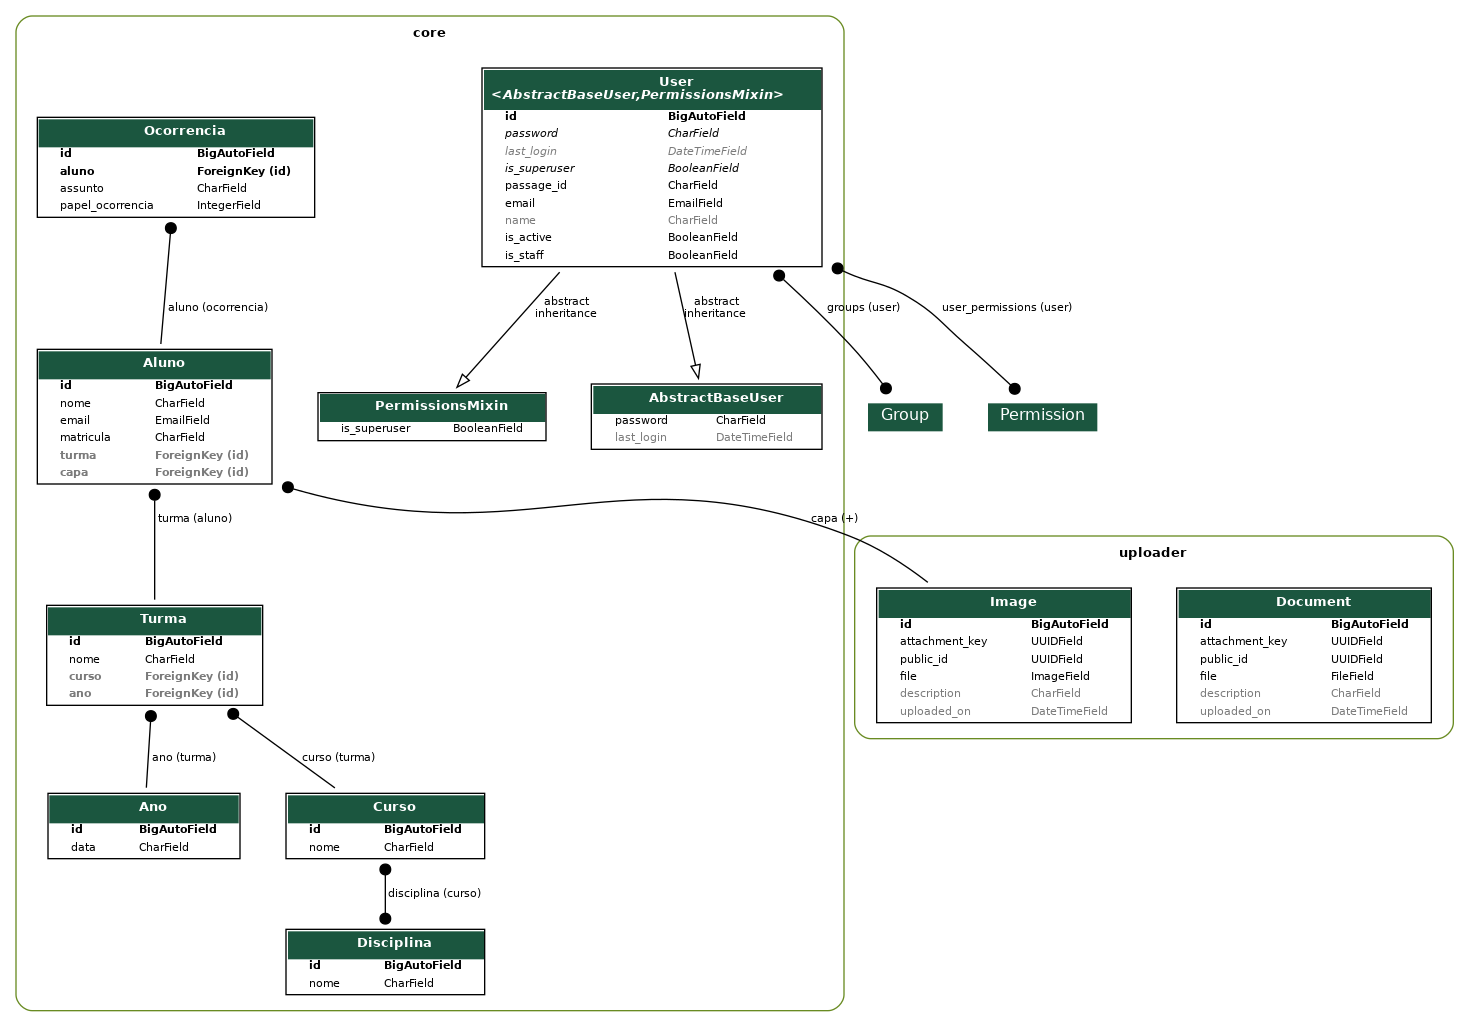
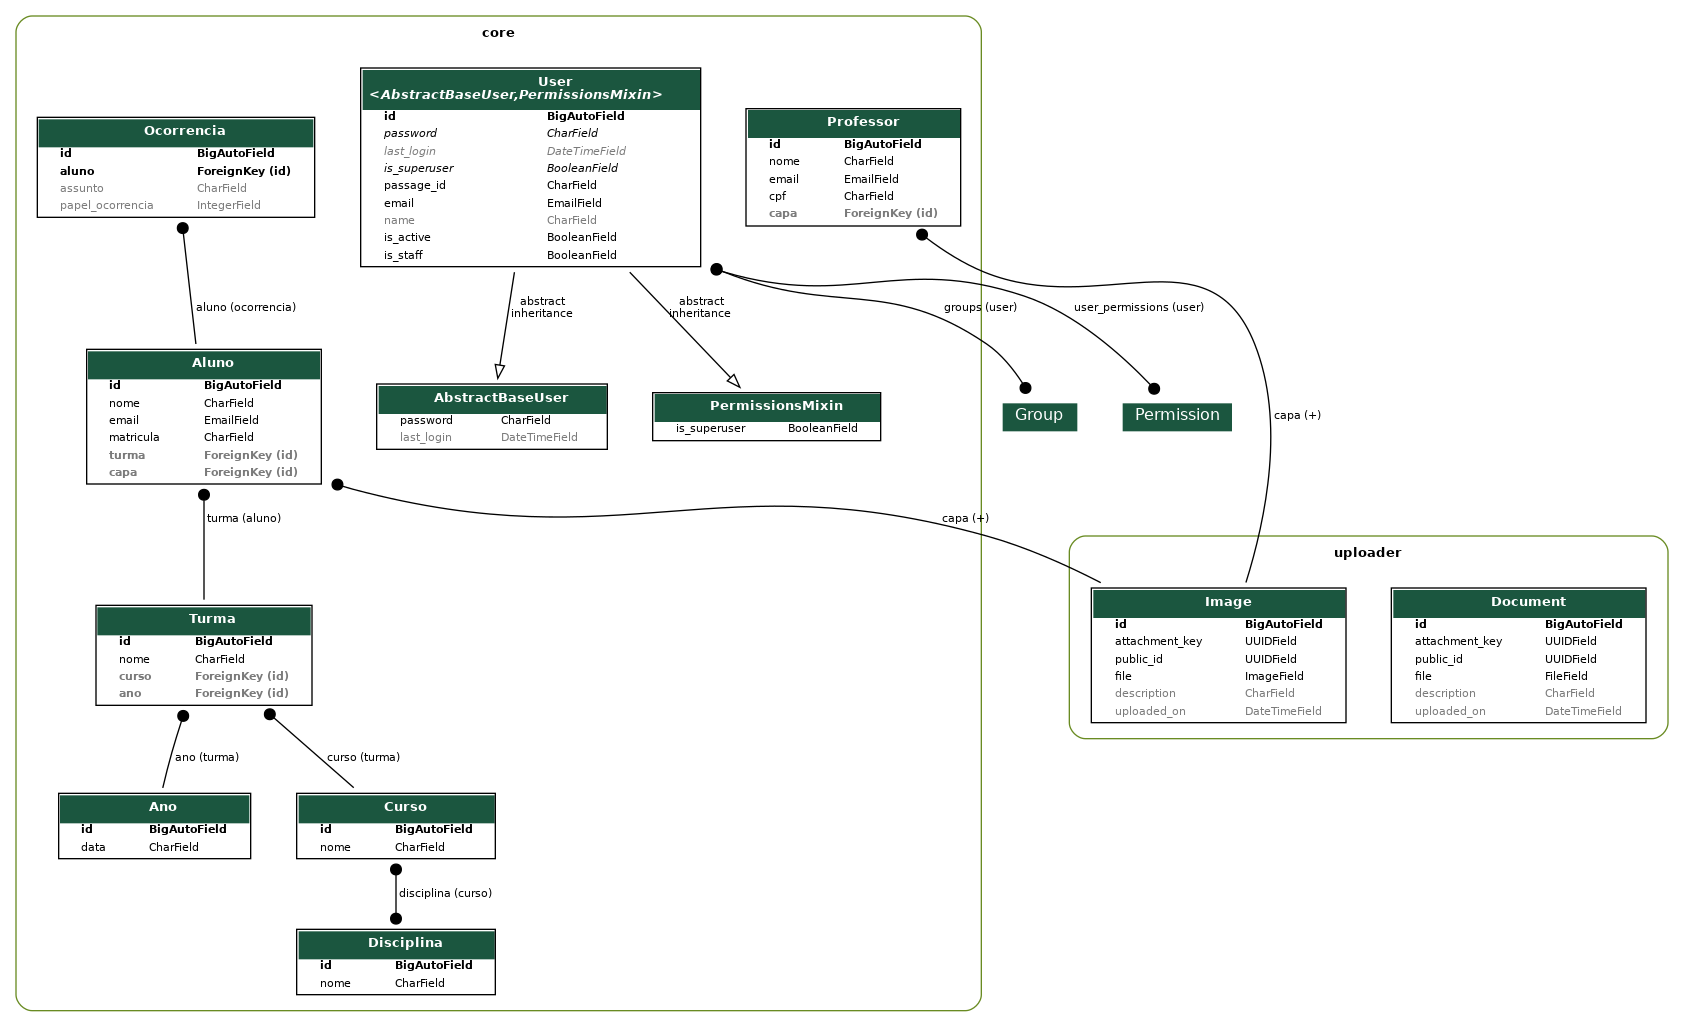
Creation of the professor.py API

diff --git a/core/migrations/0019_alter_ocorrencia_assunto_and_more.py b/core/migrations/0019_alter_ocorrencia_assunto_and_more.py
@@ -1,0 +1,50 @@
+# Generated by Django 5.1.3 on 2024-11-29 17:34
+
+import django.db.models.deletion
+from django.db import migrations, models
+
+
+class Migration(migrations.Migration):
+
+    dependencies = [
+        ("core", "0018_ocorrencia"),
+        ("uploader", "0001_initial"),
+    ]
+
+    operations = [
+        migrations.AlterField(
+            model_name="ocorrencia",
+            name="assunto",
+            field=models.CharField(blank=True, max_length=300, null=True),
+        ),
+        migrations.AlterField(
+            model_name="ocorrencia",
+            name="papel_ocorrencia",
+            field=models.IntegerField(
+                blank=True,
+                choices=[(1, "Registrar Atraso"), (2, "Sem Uniforme"), (3, "Reunião NUPE")],
+                default=1,
+                null=True,
+            ),
+        ),
+        migrations.CreateModel(
+            name="Professor",
+            fields=[
+                ("id", models.BigAutoField(auto_created=True, primary_key=True, serialize=False, verbose_name="ID")),
+                ("nome", models.CharField(max_length=100)),
+                ("email", models.EmailField(max_length=100, null=True)),
+                ("cpf", models.CharField(max_length=11)),
+                (
+                    "capa",
+                    models.ForeignKey(
+                        blank=True,
+                        default=None,
+                        null=True,
+                        on_delete=django.db.models.deletion.SET_NULL,
+                        related_name="+",
+                        to="uploader.image",
+                    ),
+                ),
+            ],
+        ),
+    ]

diff --git a/core/models/professor.py b/core/models/professor.py
@@ -1,0 +1,24 @@
+from email.mime import image
+
+from django.db import models
+
+from uploader.models import Image
+
+
+class Professor(models.Model):
+    nome = models.CharField(max_length=100)
+    email = models.EmailField(max_length=100, blank=False, null=True)
+    cpf = models.CharField(
+        max_length=11,
+    )
+    capa = models.ForeignKey(
+        Image,
+        related_name="+",
+        on_delete=models.SET_NULL,
+        null=True,
+        blank=True,
+        default=None,
+    )
+
+    def __str__(self):
+        return f"{self.id} - {self.nome} - {self.email} {self.cpf}"

diff --git a/core/serializers/turma.py b/core/serializers/turma.py
@@ -14,4 +14,4 @@ class TurmaSerializer(ModelSerializer):
 class TurmaListSerializer(ModelSerializer):
     class Meta:
         model = Turma
-        fields = ["nome", "curso", "ano"]
+        fields = ["id", "nome", "curso", "ano"]

diff --git a/core/models/__init__.py b/core/models/__init__.py
@@ -3,5 +3,6 @@ from .ano import Ano
 from .curso import Curso
 from .disciplina import Disciplina
 from .ocorrencia import Ocorrencia
+from .professor import Professor
 from .turma import Turma
 from .user import User

diff --git a/core/admin.py b/core/admin.py
@@ -84,3 +84,4 @@ admin.site.register(models.Disciplina)
 admin.site.register(models.Curso)
 admin.site.register(models.Ano)
 admin.site.register(models.Ocorrencia)
+admin.site.register(models.Professor)
